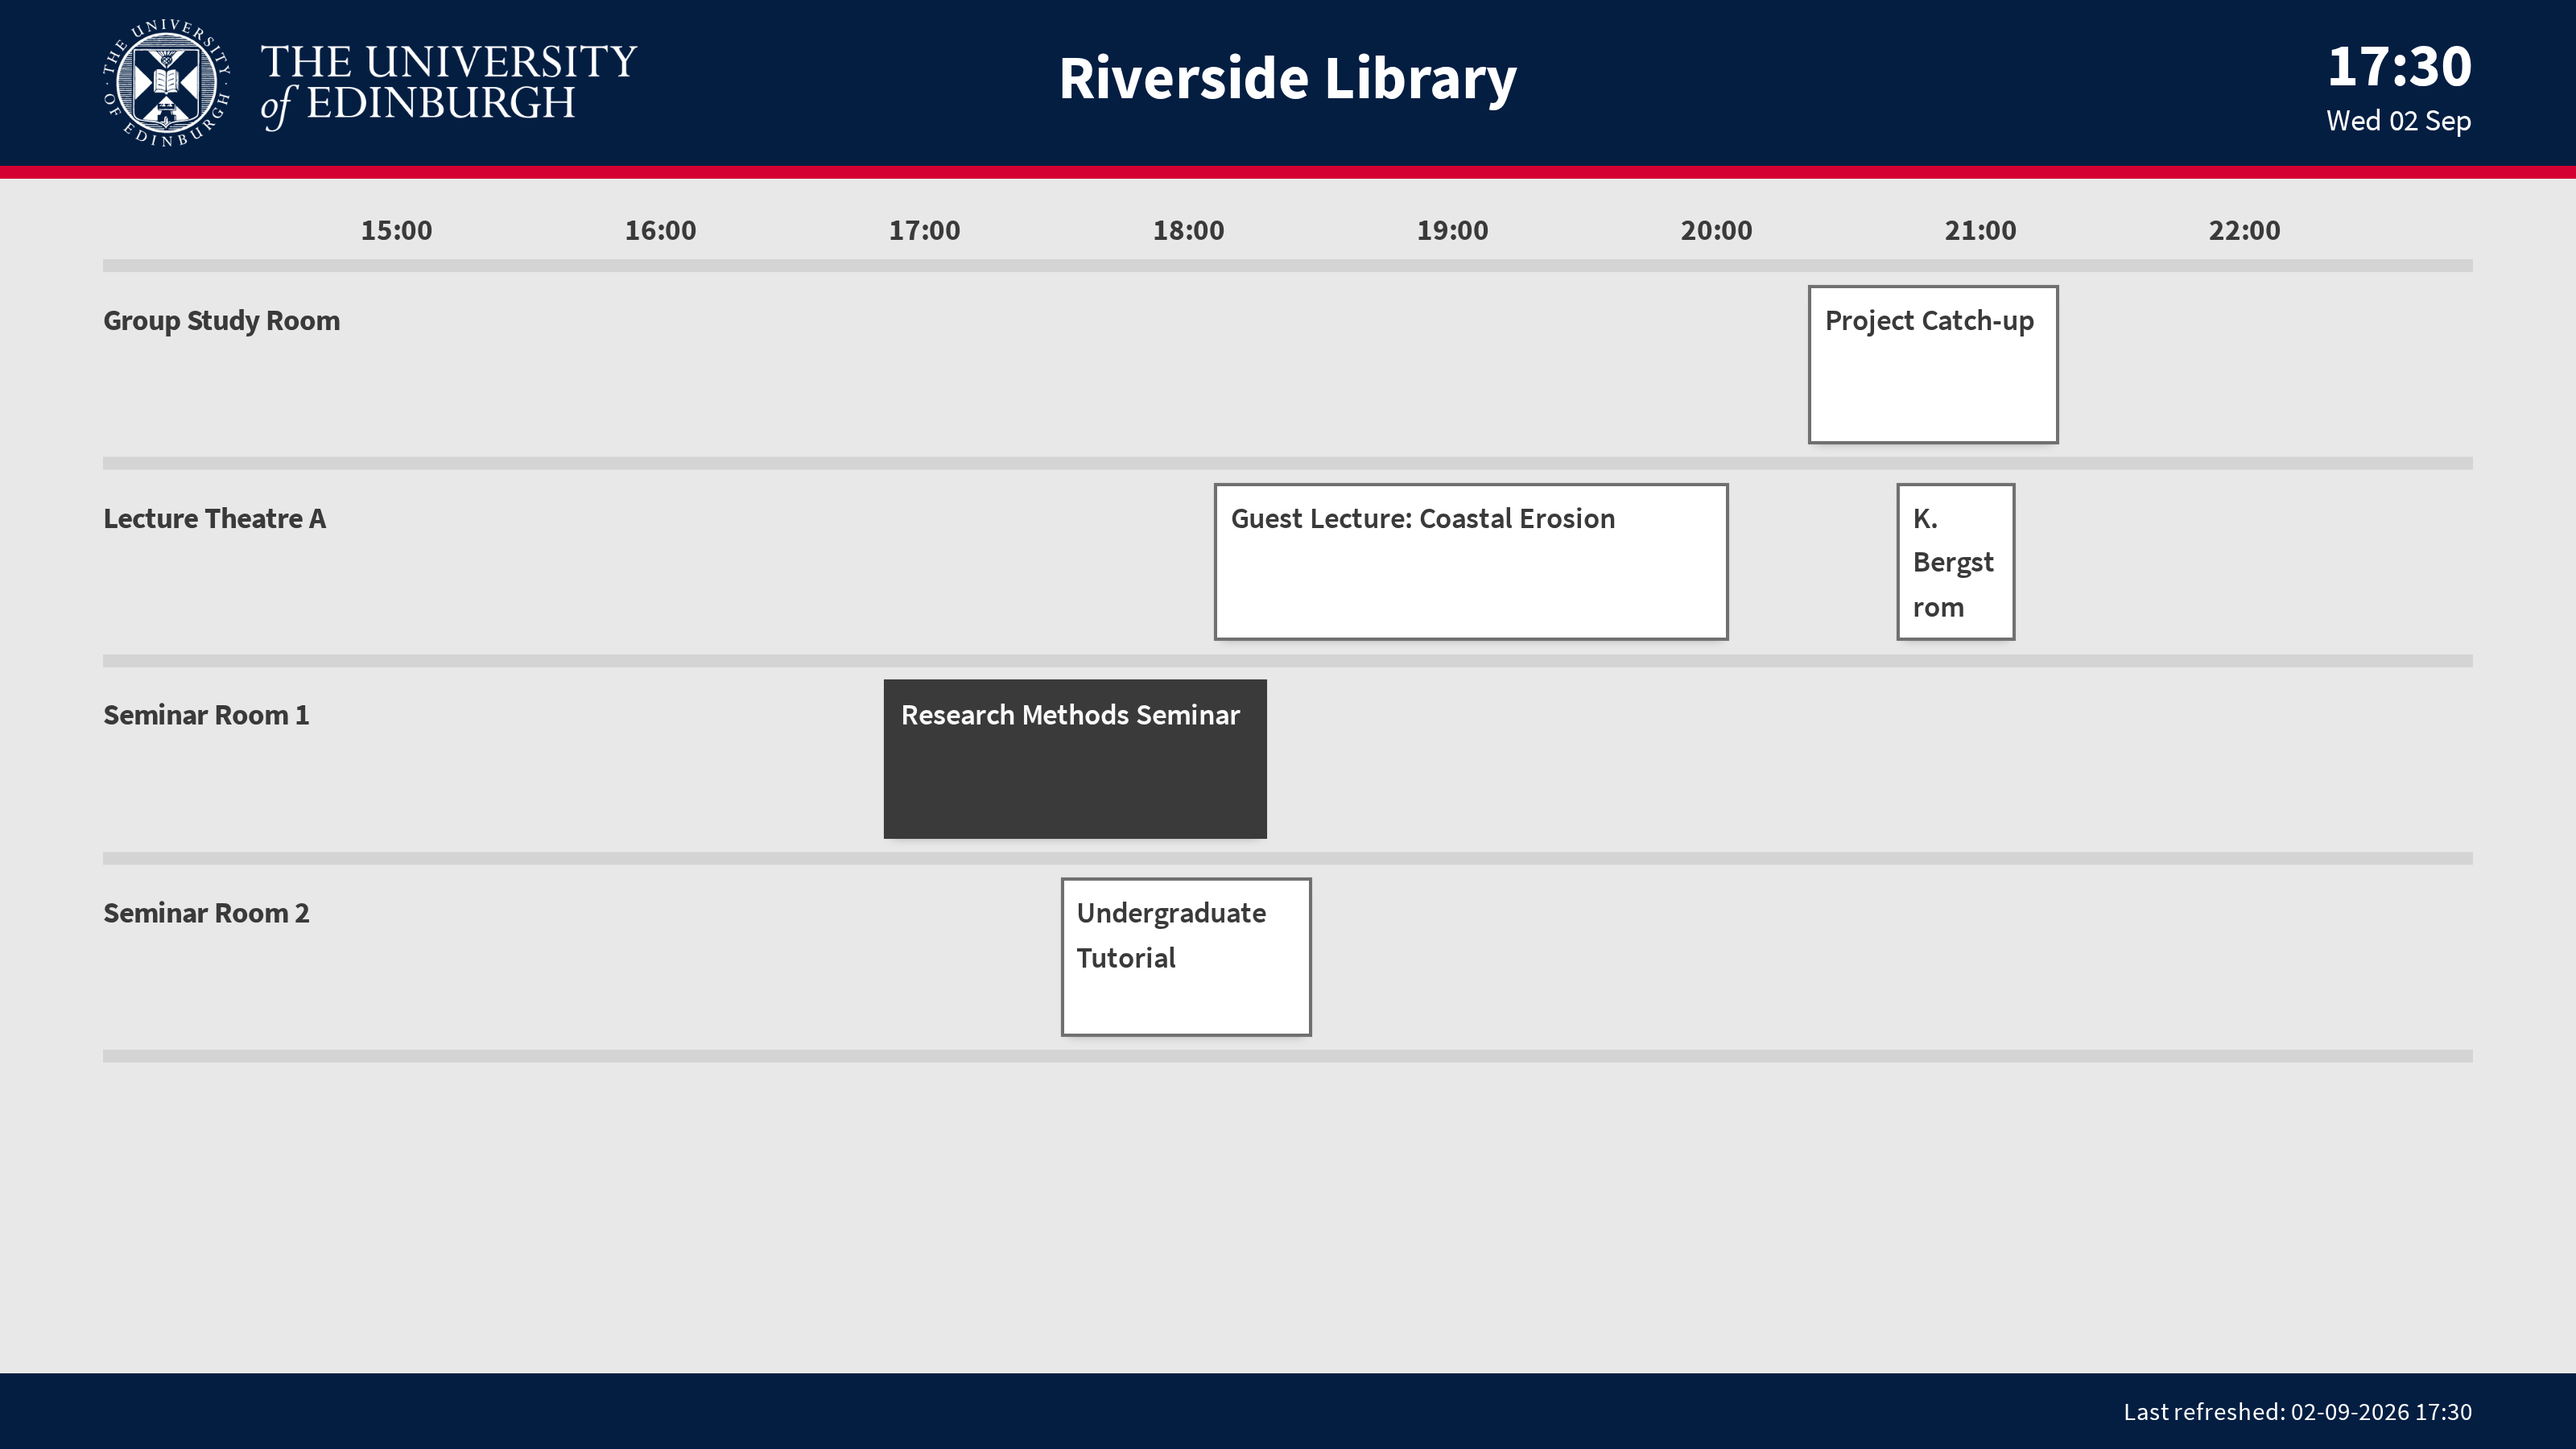
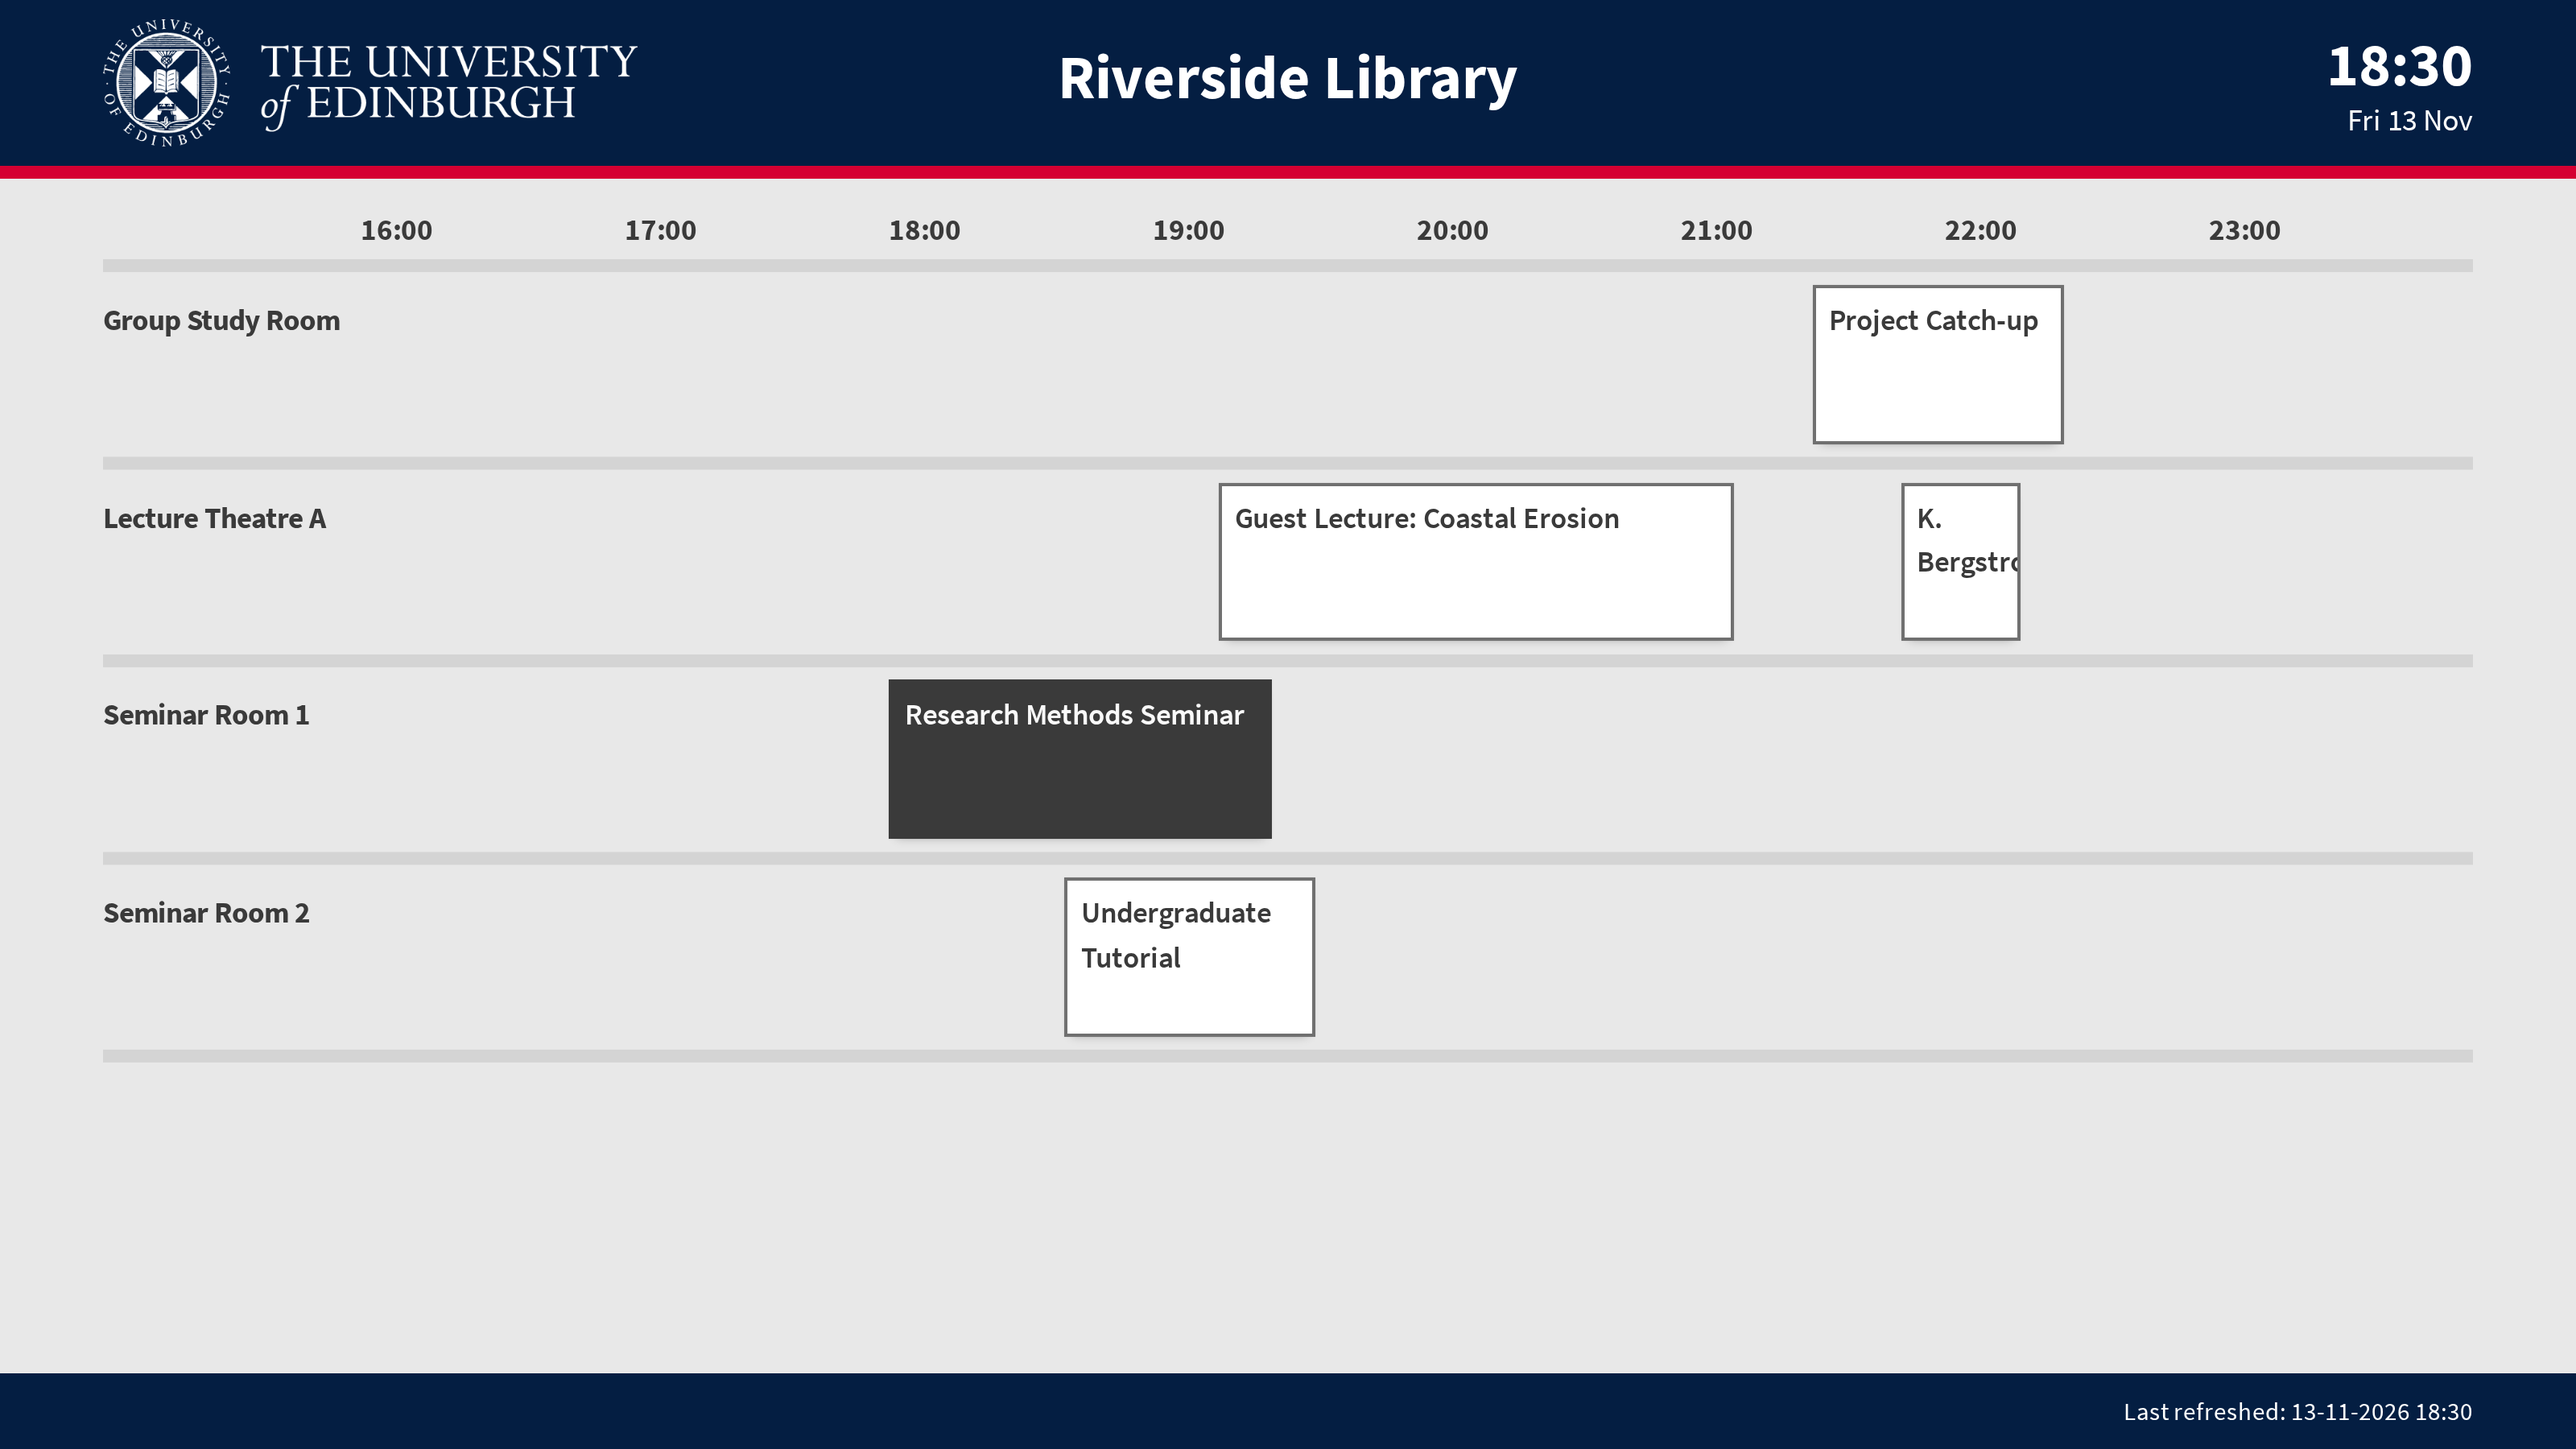
feat: Update room display documentation and enhance layout descriptions

diff --git a/helpdocs/content/technical/room-displays.md b/helpdocs/content/technical/room-displays.md
@@ -31,10 +31,11 @@ There are three kinds:
 
 Buildings and room groups can be shown in either of two layouts:
 
-- **Grid** — an hour-by-hour timetable, with a column per hour and a row per
-  room. Best for planning at a glance.
-- **Foyer** — a summary list of what's on, paging through if there's more than
-  fits. Best for readability from a distance.
+- **Grid** — an hour-by-hour timetable of the whole day, with a column per hour
+  and a row per room. Bookings stay on it after they finish, and the one
+  happening now is highlighted. Best for planning at a glance.
+- **Foyer** — a summary list of what's on now and still to come, paging through
+  if there's more than fits. Best for readability from a distance.
 
 ![A building grid display](screenshot:building-grid)
 
@@ -49,8 +50,10 @@ of its own — see [Choosing a room layout](#choosing-a-room-layout).
     - **Default display** — Grid or Foyer.
     - **Grid start hour** and **Grid end hour** — the span of the day shown on
       the timetable, on a 24-hour clock. The default 8 to 18 gives a ten-hour
-      day. A narrower range gives each booking more room; **anything outside the
-      range is cut off**, so make sure it covers your real booking hours.
+      day. A narrower range gives each booking more room, but **anything outside
+      the range is cut off**: a booking running past either end is cut short at
+      it, and one wholly outside isn't shown at all. Make sure the range covers
+      your real booking hours.
     - **Pagination duration** — how long each page is held before moving to the
       next.
 4. Under **Screensaver**, optionally enable it and set how long it shows for.
@@ -94,7 +97,7 @@ honour.
 | Layout | What it looks like | Best for |
 |---|---|---|
 | **Standard** | A list of the day's bookings, with the current one enlarged | Most room screens. The default. |
-| **Screen** | A large coloured banner — *Available*, *Busy Soon* or *In Use* — with a live countdown, a progress bar, the next booking and the day's schedule beneath. Stretches to fill the display. | Widescreen displays that should read from across a corridor |
+| **Screen** | A navy University masthead with the logo and clock, over a large coloured banner — *Available*, *Busy Soon* or *In Use* — with a live countdown, a progress bar, the next booking and the day's schedule beneath. Stretches to fill the display. | Widescreen displays that should read from across a corridor |
 | **Tablet** | The same banner design, laid out for a 1280×800 tablet and scaled to fit | Wall-mounted tablets, especially ones used for booking |
 
 ![The Screen layout](screenshot:room-layout-screen)
